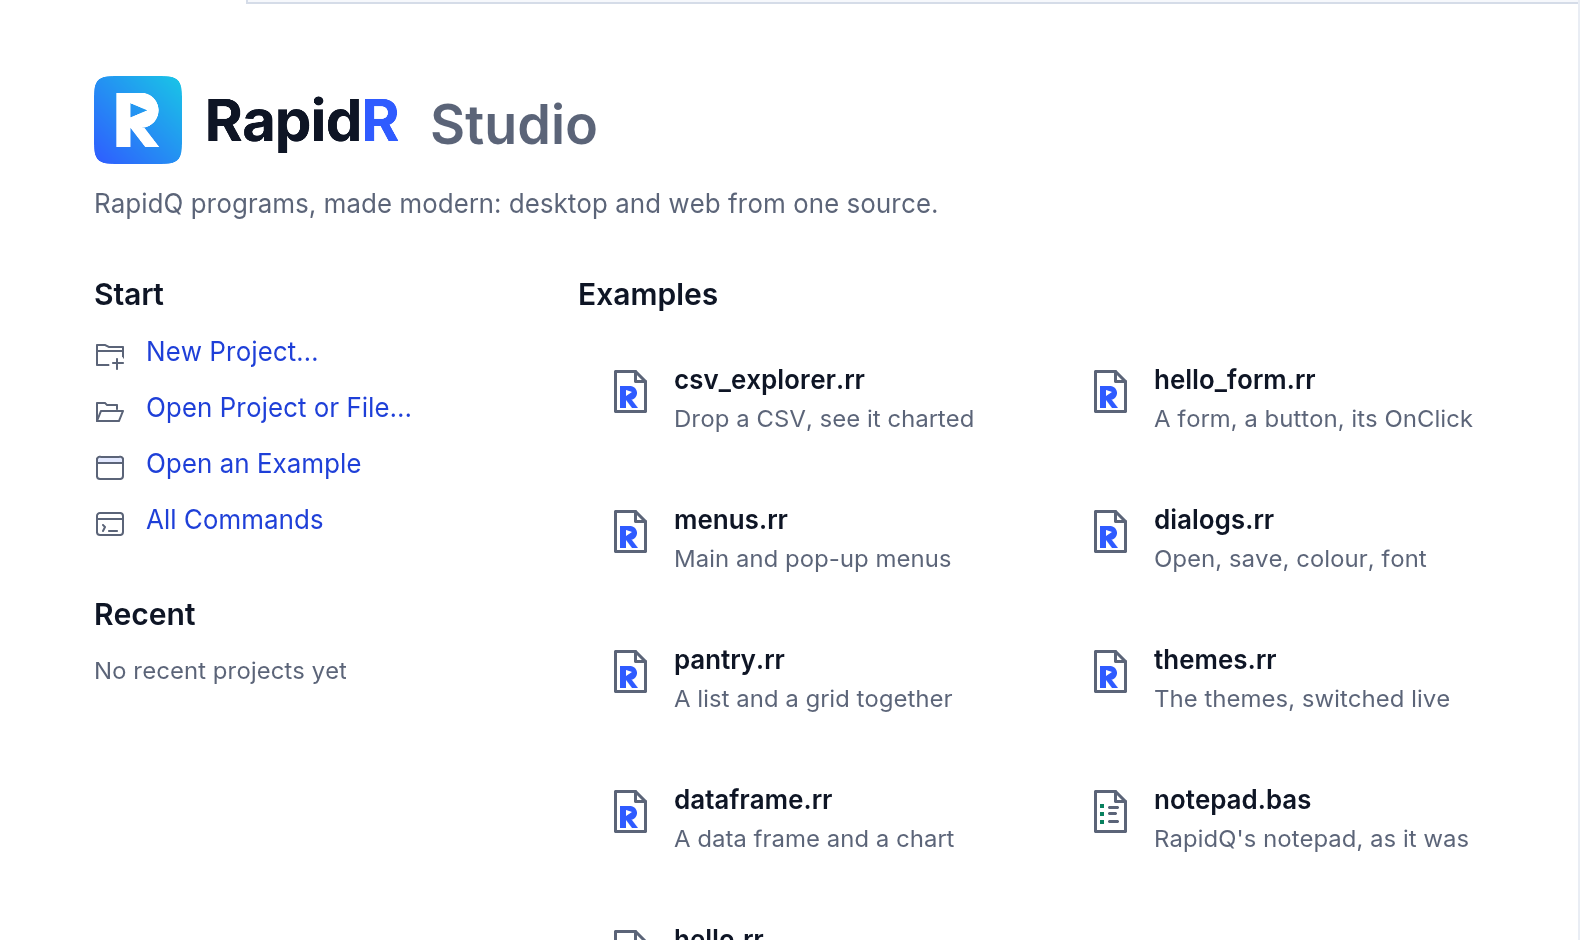
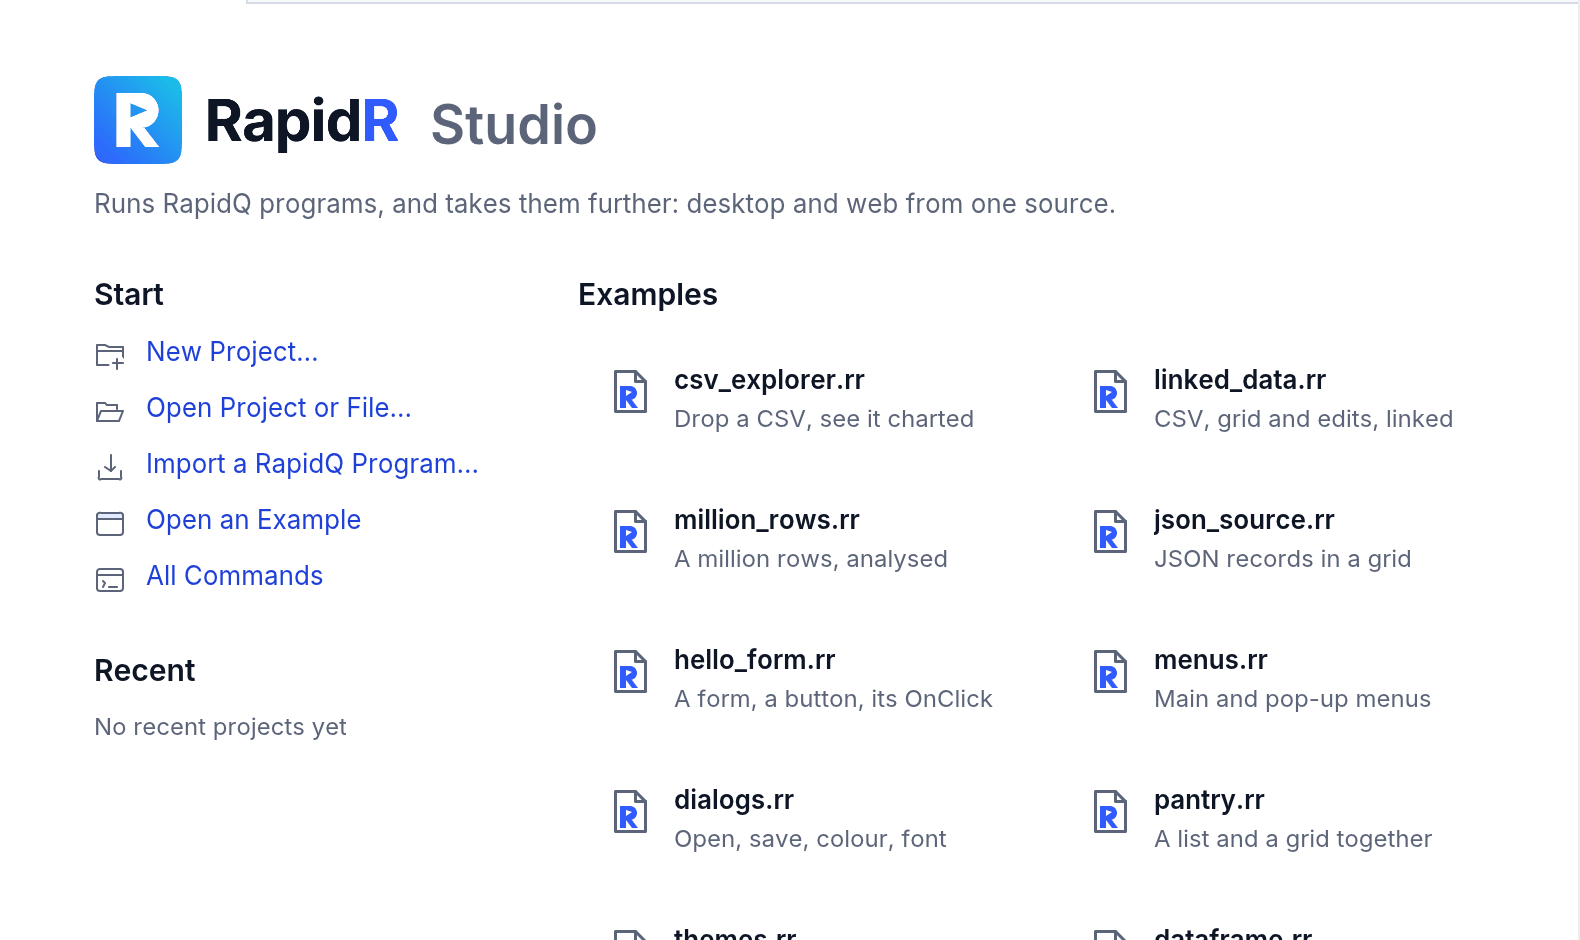
Studio's Welcome page leads with the data examples; CHANGELOG, ROADMAP and ide-components for linked data (phase 1)

diff --git a/ROADMAP.md b/ROADMAP.md
@@ -490,7 +490,7 @@ The IDE plan ([docs/ide-plan.md](docs/ide-plan.md)) schedules the immediate wind
 **I7 — Linked data and data science** (L, 18–26 sessions; the core in the first release)
 - [x] One data-science engine on every runtime (D7 decided: our own, `rapidr_value::datascience` — RNUM, RDATAFRAME and RPLOT's model shared by native, interpreted and web; polars and ndarray dropped; conformance cases `datascience_*` on all three runtimes)
 - [ ] RPlot drawn by the kernel (vector, accessible, identical on desktop and web) — replacing today's two renderers (plotters on the desktop, a canvas on the web) of the one chart model
-- [ ] Core: RDBConnection / RDBQuery / RDBTable (SQLite), RDataFile (CSV, JSON), `RDataFrame.Source`, RDFFilter / RDFSort / RDFGroup / RDFCompute, RDataSource, RDBGrid, RPlot's declarative binding — live at design time (read-only), with the tray, component-reference pickers and RDataPreview (schema, rows, quick stats)
+- [ ] Core: RDBConnection / RDBQuery / RDBTable (SQLite), RDataFile (CSV, JSON), `RDataFrame.Source`, RDFFilter / RDFSort / RDFGroup / RDFCompute, RDataSource, RDBGrid, RPlot's declarative binding — live at design time (read-only), with the tray, component-reference pickers and RDataPreview (schema, rows, quick stats) *(Phase 1, DATA-ARCH 2026-10-15 — [docs/data-science-plan.md](docs/data-science-plan.md) §12: RCSV (the plan's RDataFile for CSV), RJson's records as a source, `RDataFrame.Source`, RDataSource, RDBGrid, DataSource / DataField on REdit and RLabel — live in the designer, the tray and the inspector's pickers, on every runtime; left: SQLite datasets, the RDF transforms, RPlot's binding, RDataPreview)*
 - [ ] Later: Parquet, MySQL at design time, RDFJoin / RDFSelect / RDFLimit, editable datasets with RDBEdit & co. and RDBNavigator, lookups, column-name completion in expressions
 - [ ] **PRIORITY for the WOW 1.0 — "the World of WOW" for data-science users (Robert, 2026-10-11).** RDataFrame grows to what Polars covers (docs.rs/polars as the checklist), the RapidR way: our own engine (D7 stands — one model on every runtime), BASIC-friendly names, everything visual and live in Studio:
   - **Sources as linked components** (Delphi/Xojo style: drop them in the tray, point RDataFrame.Source at one, see the data at design time): RCSV, RJSON, RExcel, RParquet, RArrow (IPC/Feather), RAvro, RDeltaLake; RSQLite, RMySQL, RPostgres (also Redshift), RSQLServer; cloud files through RS3 / RAzureBlob / RAzureFile. Each reads and writes. Licence check per crate (permissive only; e.g. Oracle needs Oracle's own client — a legal and dependency review before any RDB for it). Web: what a browser can do (files, HTTP, cloud over HTTPS), the rest says so clearly.
@@ -502,6 +502,7 @@ The IDE plan ([docs/ide-plan.md](docs/ide-plan.md)) schedules the immediate wind
   - **Easy enough for a school kid:** one obvious way to do each thing, plain-English names and errors, visual building first (connect, see, chart), guided examples and lessons — RapidR as the tool schools and universities hand to students for data-science apps. (Anything for schools that holds student data or accounts goes through the six legal checks first — COPPA above all.)
   - **Kept in view on every connector:** permissive, commercial-friendly licences only (each crate checked; Oracle needs Oracle's own client — a legal and dependency review before any connector for it); on the web everything a browser can do (files, HTTP, cloud over HTTPS), and direct database connections say clearly they are desktop-only.
   - **The best VM and debugger (Robert, 2026-10-11):** the VM robust, fast and lean — runs well on small, old computers (memory and CPU budgets measured, no busy loops, idle at ~0 % CPU); the debugger Xcode-class: hover any variable or object and expand it (fields, arrays, frames, components with their properties, nested to any depth), the same tree in Variables / Watch, frames shown as tables, values editable, changes highlighted between steps, conditional / hit-count / log breakpoints, break on exceptions, run to cursor, set next statement.
+  - **Phase 1 done (DATA-ARCH, 2026-10-15):** the plan ([docs/data-science-plan.md](docs/data-science-plan.md): engine, connectors with each crate's licence, data-aware components, BASIC API, web limits, budgets, benchmarks, registry, phases 1–7, 35–46 sessions); the engine core typed, columnar and multithreaded (numbers in the plan's §12); RCSV / RJson as sources, `RDataFrame.Source`, RDataSource, RDBGrid (virtual rows), DataSource + DataField on REdit / RLabel, live at design time; examples (`linked_data`, `million_rows`, `json_source`), tools/bench/ against pandas / Polars, the manual's chapter "Data science with RapidR".
   - **RapidQ compatibility never broken:** everything above is additive — RapidQ programs keep running unchanged (RC.EXE stays the ground truth, the corpus suite on every release).
   - **AI-ready by design (every component, not only data):** the language registry stays the one machine-readable description of every component, property, method, event and function — the IDE's MCP server and the RAI component in users' programs read it to know what exists, and act through one introspection/command interface (create, connect, set, call, read results) that every component implements. So an AI agent can build full working programs in Studio and drive components inside users' running programs, under the user's permission tiers. Designed deeply (an architecture doc and review) before I8 starts; no component ships without its registry entry and that interface.
 

diff --git a/CHANGELOG.md b/CHANGELOG.md
@@ -7,6 +7,39 @@ project uses [Semantic Versioning](https://semver.org/). Planned work lives in
 
 ## [Unreleased]
 
+### Linked data, live in the designer (DATA-ARCH, I7 phase 1)
+- **The plan**: [docs/data-science-plan.md](docs/data-science-plan.md) — the columnar engine, sources as
+  linked components (CSV, JSON, Excel, Parquet, Arrow, Avro, Delta Lake, SQLite, MySQL, PostgreSQL /
+  Redshift, SQL Server, S3 / Azure), data-aware components, the BASIC API, the web's limits, the licence
+  of every crate, performance budgets and a benchmark suite against pandas and Polars, the registry for
+  IntelliSense / MCP, phases with sizes.
+- **RCSV** (new): a CSV file as a data source — `FileName`, `Delimiter` (`,` `;` tab `|` …),
+  `HasHeader`, `Text`; `RowCount`, `ColCount`, `Columns`, `Error`; `Load`, `Save [file]`, `Clear`;
+  `OnLoad`, `OnError(Message)`. Read once, when its table is first needed; a relative file is found in
+  the current folder or beside the program.
+- **RDataFrame.Source** (an RCSV, an RJson's records, another RDataFrame): the frame takes the rows at
+  once and again whenever the source changes; `RDataFrame.Refresh`.
+- **RJson's records are a data source** (`[{…}]`, JSON Lines, columns) — taken again when the
+  document changes.
+- **RDataSource** (new): a current row shared by the controls bound to it — `DataSet`, `Row`,
+  `RecordCount`, `EOF` / `BOF` (Delphi's: `WHILE NOT DS.EOF … DS.Next WEND`), `Enabled`, `State`;
+  `First`, `Prior`, `Next`, `Last`, `MoveBy`, `Field(name)`, `SetField`, `Refresh`; `OnDataChange`.
+- **RDBGrid** (new): a grid drawn by the UI kernel straight from a data set's frame, only the rows on
+  screen (a million rows scroll smoothly): headings, row numbers, numbers right-aligned, a missing
+  value dimmed as `null`, the current row (click, arrows, Page Up / Down, Home / End), a heading's click
+  sorts the grid's view (the data unchanged), `OnCellClick(Row, Col)`, `OnTitleClick(Col)`; a grid for
+  screen readers. Pixel-identical on the desktop and the web.
+- **`DataSource` + `DataField` on REdit and RLabel** (RapidR's own, additive): the current row's
+  field; what the user types in a bound edit goes back into the table.
+- **Live in RapidR Studio's designer**: the designed form's RCSV / RJson / RDataFrame / RDataSource are
+  read by the designer itself (files inside the project only, read-only, cached), so grids, edits and
+  labels show the real data while you design; RCSV is in the toolbox's Data group, with the data
+  file's icon.
+- One model for every runtime (`rapidr_value::datascience::link`): native builds, the interpreter, the
+  web and the designer. Registry entries for every member (IntelliSense, the manual, MCP).
+- Examples: `data/linked_data.rr`, `data/million_rows.rr`, `data/json_source.rr` (on Studio's
+  Welcome page); the manual's new chapter **Data science with RapidR**, with screenshots.
+
 ## [2.118.0] — 2026-10-09 (Preview)
 
 ### Triage of the full regression run (TRIAGE)

diff --git a/docs/ide-components.md b/docs/ide-components.md
@@ -208,6 +208,8 @@ Keyboard: F6 / Shift+F6 between areas (the groups' shown panes, the active docum
 
 All are R-only (no RapidQ counterpart) and additive. Links are component-reference properties, set in the designer with pickers or in code (`DS1.DataSet = Query1`).
 
+*The data-science plan ([docs/data-science-plan.md](data-science-plan.md), 2026-10-15) refines this table and is the reference now: a source per format (**RCSV** — built —, RExcel, RParquet …; RJson's records are a source too) instead of one RDataFile; **`DataSource` + `DataField` on the regular controls** (REdit, RLabel — built —, RCheckBox, RComboBox, RMemo …) instead of separate RDBEdit / RDBLabel …; a control may name a data set straight (its own current row) or an RDataSource. Built in phase 1: RCSV, `RDataFrame.Source`, RDataSource, RDBGrid, DataSource / DataField on REdit and RLabel.*
+
 | Component | Properties | Methods / events |
 |---|---|---|
 | **RDBConnection** | `Driver` (`"sqlite"`, `"mysql"`), `Database`, `Host`, `Port`, `User`, `Password` (never written by the designer), `Connected`, `ReadOnly` | `Connect`, `Disconnect`, `Execute(SQL, params…)`; OnConnect, OnError |
